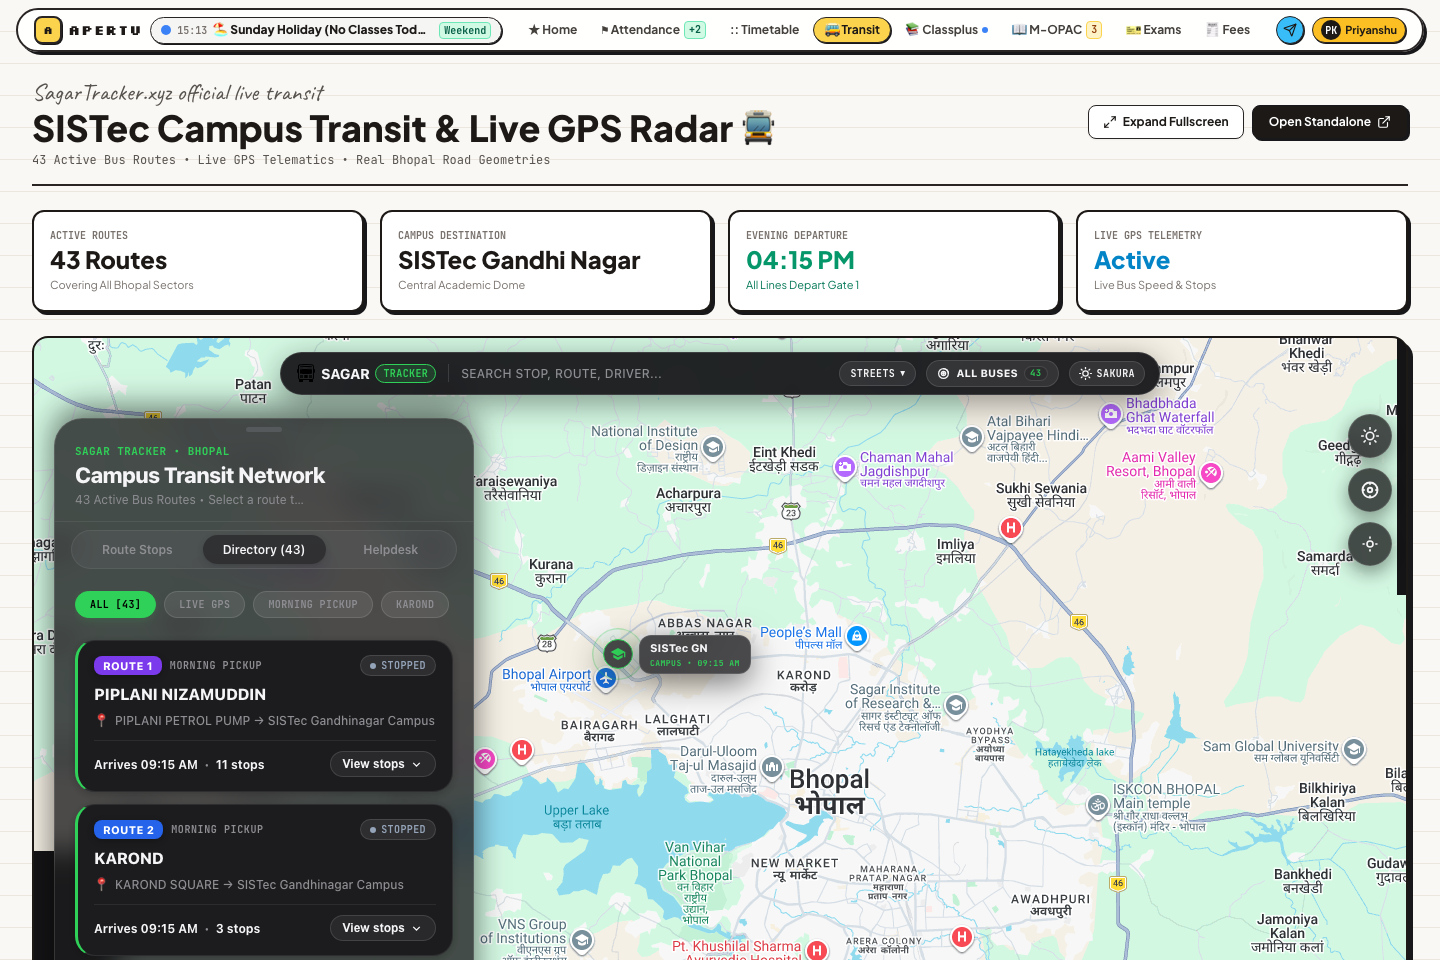
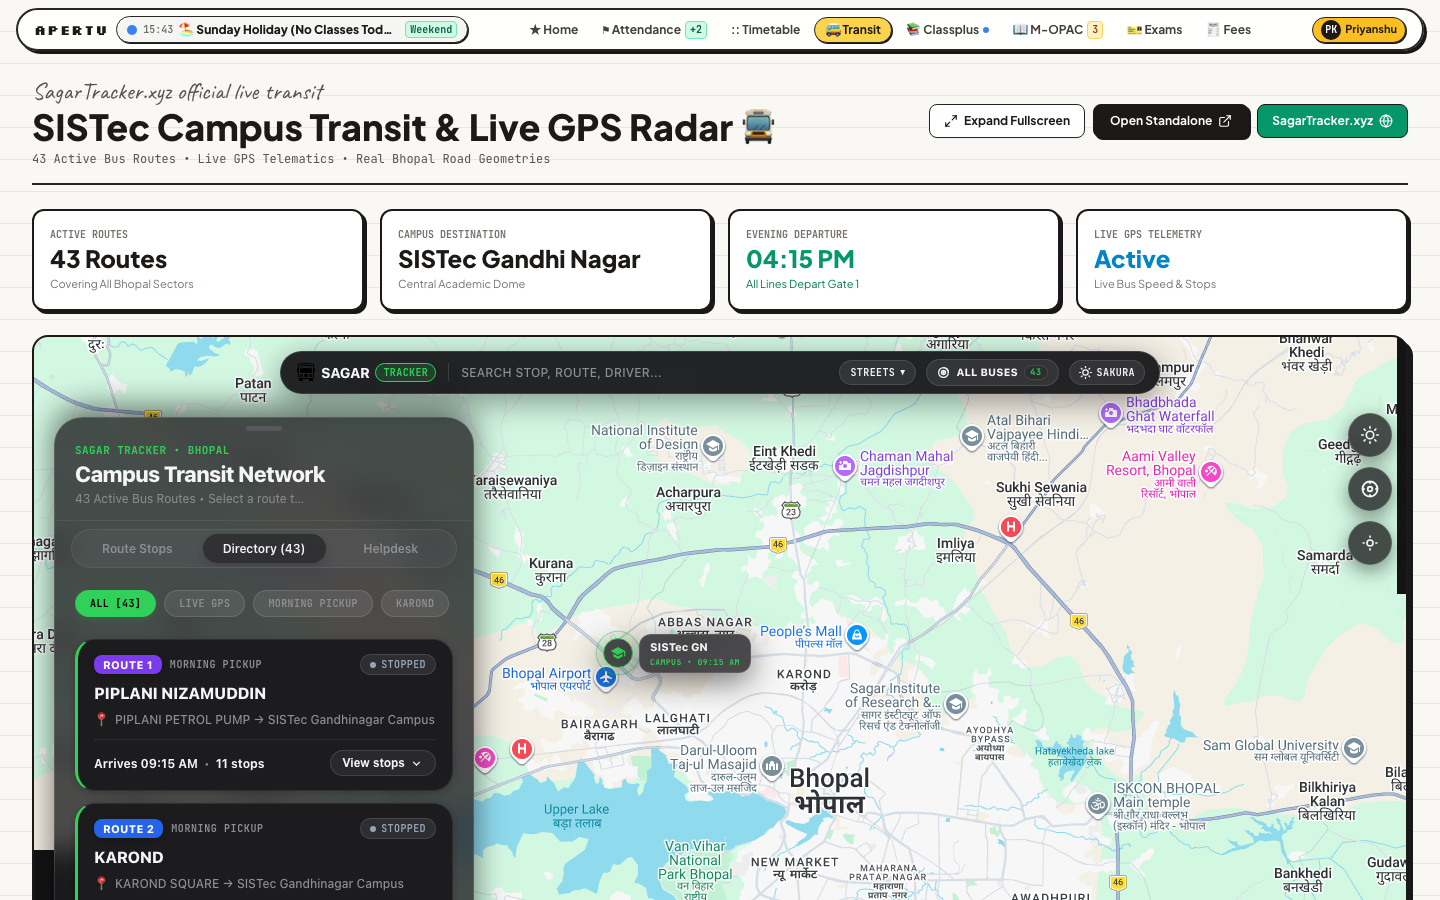
feat: clean Apertu header brand, add SagarTracker transit folder on dashboard, fix relative transit path & add vercel.json

diff --git a/index.html b/index.html
@@ -217,10 +217,7 @@
       
       <!-- Left: Brand & Live Class/Activity Routine Indicator -->
       <div class="flex items-center gap-1.5 sm:gap-2 shrink-0">
-        <div onclick="navigateTo('dashboard')" class="flex items-center gap-1.5 cursor-pointer group" title="Apertu Home">
-          <div class="w-6 h-6 sm:w-7 sm:h-7 rounded-lg border-2 border-stone-800 flex items-center justify-center bg-amber-300 shadow-[1px_1px_0px_#18181b] group-hover:rotate-6 transition-all shrink-0">
-            <span class="font-pixel text-[10px] sm:text-[11px] font-black text-stone-900">A</span>
-          </div>
+        <div onclick="navigateTo('dashboard')" class="flex items-center cursor-pointer group" title="Apertu Home">
           <span class="font-pixel text-xs sm:text-sm font-black text-stone-900 tracking-wider group-hover:text-rose-600 transition">APERTU</span>
         </div>
         
@@ -584,6 +581,87 @@
           </div>
         </div>
 
+        <!-- FOLDER 03: SAGARTRACKER.XYZ TRANSIT RADAR -->
+        <div class="folder-container bg-stone-900 text-white p-6 sm:p-10 relative border-2 border-stone-800">
+          <div class="folder-tab bg-stone-900 text-white border-stone-800">
+            <span>● MODULE 03</span>
+            <span class="text-emerald-400">/</span>
+            <span>SAGARTRACKER.XYZ TRANSIT</span>
+          </div>
+
+          <div class="grid grid-cols-1 lg:grid-cols-12 gap-8 items-center">
+            <div class="lg:col-span-5 space-y-4">
+              <span class="text-xs font-mono text-emerald-400 uppercase tracking-widest block font-bold">
+                ● 43 BUS ROUTES • LIVE GPS RADAR
+              </span>
+              <h3 class="text-3xl sm:text-4xl font-extrabold tracking-tight">
+                SagarTracker.xyz 🚍
+              </h3>
+              <p class="text-stone-300 text-sm leading-relaxed">
+                Official transit telemetry engine for SISTec Bhopal. Live GPS tracking across 43 bus lines, real-time stop announcements, route speeds, and delay predictions.
+              </p>
+              
+              <div class="pt-2 flex flex-wrap gap-3">
+                <button onclick="navigateTo('transit')" class="tactile-btn bg-emerald-400 hover:bg-emerald-300 text-stone-950 text-xs font-black uppercase tracking-wider px-5 py-2.5 rounded-lg flex items-center gap-2">
+                  <span>Launch Live Radar</span>
+                  <i data-lucide="arrow-right" class="w-3.5 h-3.5"></i>
+                </button>
+                <a href="./sagartracker.html" target="_blank" class="tactile-btn bg-stone-800 hover:bg-stone-700 text-white text-xs font-bold uppercase tracking-wider px-4 py-2.5 rounded-lg flex items-center gap-1.5 border border-stone-700">
+                  <span>Open Standalone</span>
+                  <i data-lucide="external-link" class="w-3.5 h-3.5"></i>
+                </a>
+              </div>
+            </div>
+
+            <div class="lg:col-span-7">
+              <div class="bg-stone-950 border border-stone-700 rounded-xl p-5 relative shadow-xl">
+                <div class="washi-tape washi-green tape-tl"></div>
+                <div class="washi-tape washi-green tape-tr"></div>
+
+                <div class="flex flex-wrap items-center justify-between gap-3 border-b border-stone-800 pb-3 mb-3">
+                  <div class="flex items-center gap-2">
+                    <span class="w-2.5 h-2.5 rounded-full bg-emerald-400 animate-ping"></span>
+                    <span class="font-mono text-xs font-bold text-emerald-400">LINE 01 • ACTIVE RADAR</span>
+                  </div>
+                  <span class="stamp-pill bg-emerald-950 text-emerald-300 border-emerald-700 text-[10px] py-0.5 px-2">
+                    SISTec Gandhi Nagar
+                  </span>
+                </div>
+
+                <div class="p-3 bg-stone-900 rounded-lg border border-stone-800 mb-3">
+                  <div class="flex items-center justify-between mb-1">
+                    <span class="text-sm font-black text-white">Line 01: Piplani BHEL Vanguard</span>
+                    <span class="text-xs font-mono font-bold text-emerald-400">38 km/h</span>
+                  </div>
+                  <p class="text-[11px] text-stone-400 font-mono">
+                    Bus #01 • Driver: Rameshwar Sharma • ETA: 14 mins
+                  </p>
+                </div>
+
+                <div class="space-y-1.5 text-xs">
+                  <div class="flex items-center justify-between p-2 rounded bg-stone-900 border border-stone-800 text-[11px]">
+                    <span class="text-stone-300 font-mono">1. Piplani Petrol Pump</span>
+                    <span class="text-emerald-400 font-bold">Departed 08:05</span>
+                  </div>
+                  <div class="flex items-center justify-between p-2 rounded bg-stone-900 border border-stone-800 text-[11px]">
+                    <span class="text-stone-300 font-mono">2. Ayodhya Bypass</span>
+                    <span class="text-emerald-400 font-bold">Departed 08:22</span>
+                  </div>
+                  <div class="flex items-center justify-between p-2 rounded bg-emerald-950/60 border border-emerald-800 text-[11px]">
+                    <span class="text-emerald-300 font-mono font-bold">3. Karond Square (Next Stop)</span>
+                    <span class="text-amber-400 font-bold animate-pulse">Approaching (3 min)</span>
+                  </div>
+                  <div class="flex items-center justify-between p-2 rounded bg-stone-900 border border-stone-800 text-[11px]">
+                    <span class="text-stone-400 font-mono">4. SISTec Campus</span>
+                    <span class="text-stone-500 font-bold">ETA 08:55</span>
+                  </div>
+                </div>
+
+              </div>
+            </div>
+          </div>
+        </div>
+
       </div>
 
     </section>
@@ -714,9 +792,13 @@
             <i data-lucide="maximize-2" class="w-3.5 h-3.5"></i>
             <span>Expand Fullscreen</span>
           </button>
-          <a href="/sagartracker.html" target="_blank" class="tactile-btn bg-stone-900 text-white text-xs font-bold px-4 py-2 rounded-lg flex items-center gap-1.5">
+          <a href="./sagartracker.html" target="_blank" class="tactile-btn bg-stone-900 text-white text-xs font-bold px-4 py-2 rounded-lg flex items-center gap-1.5">
             <span>Open Standalone</span>
             <i data-lucide="external-link" class="w-3.5 h-3.5"></i>
+          </a>
+          <a href="https://www.sagartracker.xyz" target="_blank" class="tactile-btn bg-emerald-600 hover:bg-emerald-500 text-white text-xs font-bold px-3.5 py-2 rounded-lg flex items-center gap-1.5 shadow-sm">
+            <span>SagarTracker.xyz</span>
+            <i data-lucide="globe" class="w-3.5 h-3.5"></i>
           </a>
         </div>
       </div>
@@ -753,11 +835,10 @@
           <span>Exit Fullscreen (Esc)</span>
         </button>
 
-        <iframe id="sagartracker-frame" src="/sagartracker.html" class="w-full h-full border-0 select-none" allow="geolocation" title="SagarTracker.xyz Official Live Transit Platform"></iframe>
+        <iframe id="sagartracker-frame" src="./sagartracker.html" class="w-full h-full border-0 select-none" allow="geolocation" title="SagarTracker.xyz Official Live Transit Platform"></iframe>
       </div>
 
     </section>
-</section>
 
     <!-- ======================================================================= -->
     <!-- PAGE 5: 📚 CLASSPLUS PORTAL & TEST NOTIFICATIONS                       -->
@@ -1617,8 +1698,8 @@
             </div>
           </div>
           <div>
-            <label class="font-mono text-stone-500 block mb-1">ENROLLMENT NUMBER</label>
-            <input type="text" id="prof-roll" value="Awaiting RGPV Allotment" class="w-full border-2 border-stone-800 rounded-lg p-2.5 font-mono text-stone-600 bg-stone-50">
+            <label class="font-mono text-stone-500 block mb-1">STUDENT CODE / ENROLLMENT</label>
+            <input type="text" id="prof-roll" value="6523402 (SISTec Cloud Portal ID)" class="w-full border-2 border-stone-800 rounded-lg p-2.5 font-mono text-stone-900 bg-stone-50 font-bold">
           </div>
           <div>
             <label class="font-mono text-stone-500 block mb-1">REGISTERED EMAIL</label>
@@ -2526,7 +2607,7 @@
         } else if (cont.webkitRequestFullscreen) {
           cont.webkitRequestFullscreen();
         } else {
-          window.open('/sagartracker.html', '_blank');
+          window.open('./sagartracker.html', '_blank');
         }
       } else {
         if (document.exitFullscreen) {
